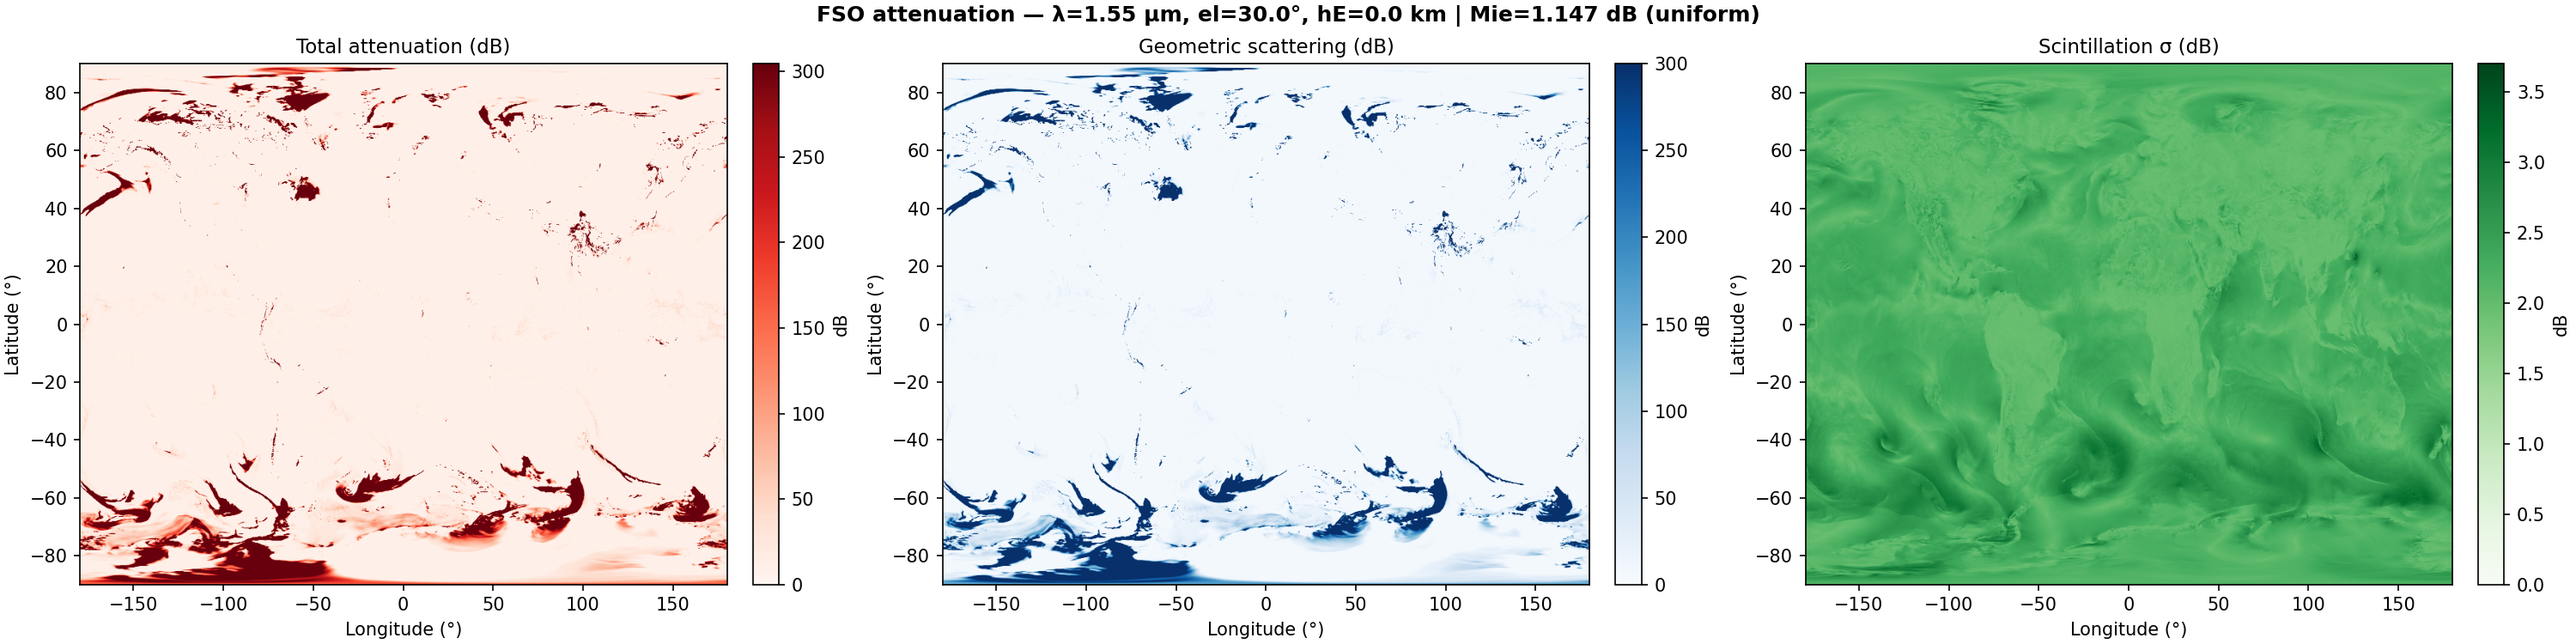
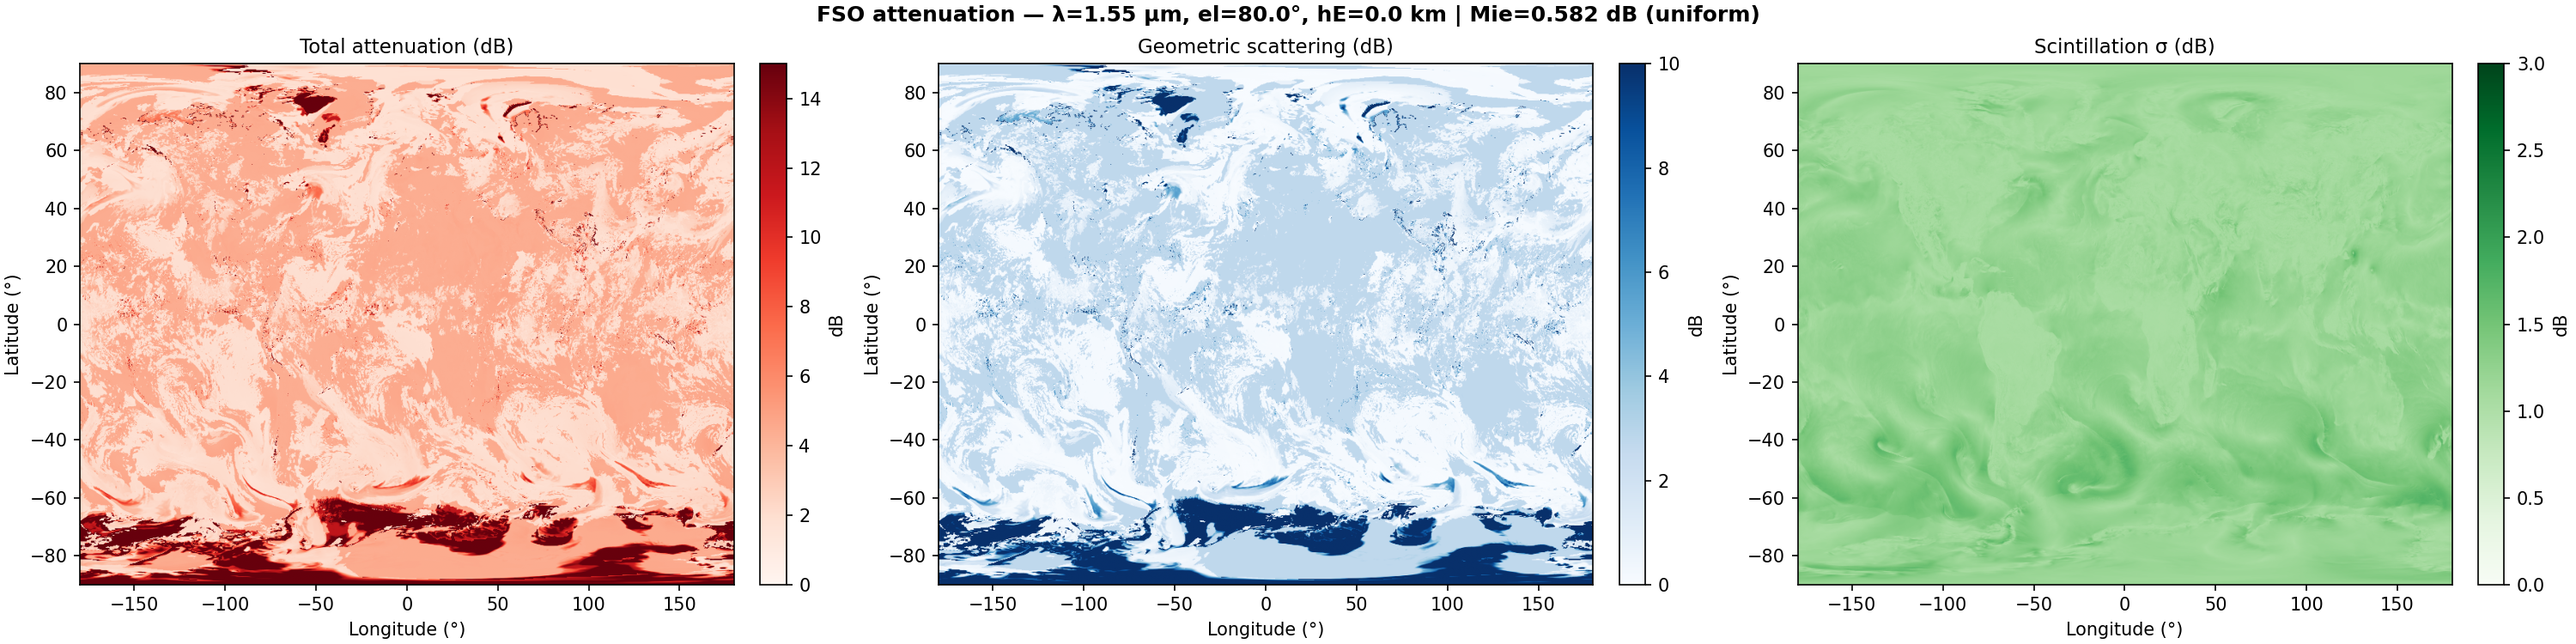
fix visibility map

diff --git a/cesium/weather_overlay.js b/cesium/weather_overlay.js
@@ -22,17 +22,14 @@ const wind50Layer = viewer.imageryLayers.addImageryProvider(
 const wind100Layer = viewer.imageryLayers.addImageryProvider(
     new Cesium.SingleTileImageryProvider({ url: 'maps/wind_speed_100m_map.png', rectangle: RECT })
 );
-const lwLayer = viewer.imageryLayers.addImageryProvider(
-    new Cesium.SingleTileImageryProvider({ url: 'maps/lw_map.png', rectangle: RECT })
-);
-const cn2Layer = viewer.imageryLayers.addImageryProvider(
-    new Cesium.SingleTileImageryProvider({ url: 'maps/cn2_map.png', rectangle: RECT })
+const visibilityLayer = viewer.imageryLayers.addImageryProvider(
+    new Cesium.SingleTileImageryProvider({ url: 'maps/visibility_map.png', rectangle: RECT })
 );
 const attenuationLayer = viewer.imageryLayers.addImageryProvider(
     new Cesium.SingleTileImageryProvider({ url: 'maps/attenuation_map.png', rectangle: RECT })
 );
 
-const allLayers = { temperature: tempLayer, wind10: wind10Layer, wind50: wind50Layer, wind100: wind100Layer, lw: lwLayer, cn2: cn2Layer, attenuation: attenuationLayer };
+const allLayers = { temperature: tempLayer, wind10: wind10Layer, wind50: wind50Layer, wind100: wind100Layer, visibility: visibilityLayer, attenuation: attenuationLayer };
 
 // Default Displayed Temperature
 Object.values(allLayers).forEach(l => l.show = false);

diff --git a/cesium/index.html b/cesium/index.html
@@ -51,8 +51,7 @@
         <button data-layer="wind10"                     onclick="showLayer('wind10')">Wind 10m above ground (m/s)</button>
         <button data-layer="wind50"                     onclick="showLayer('wind50')">Wind 50m above ground (m/s)</button>
         <button data-layer="wind100"                    onclick="showLayer('wind100')">Wind 100m above ground (m/s)</button>
-        <button data-layer="lw"                         onclick="showLayer('lw')">LWC 850mb (g/m³)</button>
-        <button data-layer="cn2"                        onclick="showLayer('cn2')">Cn² at 10 km (m⁻²/³)</button>
+        <button data-layer="visibility"                onclick="showLayer('visibility')">Visibility (km)</button>
         <button data-layer="attenuation"               onclick="showLayer('attenuation')">Attenuation (dB)</button>
     </div>
 

diff --git a/cesium/weather_map.py b/cesium/weather_map.py
@@ -73,9 +73,9 @@ def save_attenuation_plot(A_total, A_geom, A_scin, A_mie_scalar, lat, lon, filen
     """
     extent = [lon.min(), lon.max(), lat.min(), lat.max()]
     panels = [
-        (A_total, "Total attenuation (dB)",        "Reds",   0, None),
-        (A_geom,  "Geometric scattering (dB)",     "Blues",  0, None),
-        (A_scin,  "Scintillation σ (dB)",     "Greens", 0, None),
+        (A_total, "Total attenuation (dB)",    "Reds",   0, 15),
+        (A_geom,  "Geometric scattering (dB)", "Blues",  0, 10),
+        (A_scin,  "Scintillation σ (dB)",      "Greens", 0,  3),
     ]
     fig, axes = plt.subplots(1, 3, figsize=(20, 5), constrained_layout=True)
     for ax, (data, title, cmap, vmin, vmax) in zip(axes, panels):
@@ -105,27 +105,35 @@ def main():
     temp_c = gfs.field("TMP:2 m above ground") - 273.15
     save_map(temp_c, _map_path("temperature_map.png"), "turbo")
 
+    ws_maps = {}
     for level in ["10 m", "50 m", "100 m"]:
         ws = gfs.wind_speed(level)
+        ws_maps[level] = ws
         save_map(ws, _map_path(f"wind_speed_{level.replace(' ', '')}_map.png"),
                  "RdYlBu_r", vmin=0, vmax=30)
 
-    # —— Cn² at h = 7 000 m ───────────────────────────────────────────────────
-    ws_10m = gfs.wind_speed("10 m")
-    cn2 = scintillation.Cn2_profile(h_m=7_000.0, C0=C0, vg=ws_10m)
-    save_map(cn2, _map_path("cn2_map.png"), "plasma", vmin=0, vmax=1e-16)
+    ws_10m = ws_maps["10 m"]
 
     # —— Attenuation maps ─────────────────────────────────────────────────────
     print("Computing attenuation maps...")
 
     # GFS surface visibility [m] → km
-    V_km = gfs.field("VIS") / 1e3
+    V_km = gfs.field("VIS:surface") / 1e3
+    save_map(V_km, _map_path("visibility_map.png"), "YlGn", vmin=0, vmax=24)
+
+    # GFS cloud ceiling height [m AGL] → km
+    # Clear-sky pixels return 0 → fall back to full troposphere height
+    ceiling_m = gfs.field("HGT:cloud ceiling")
+    ceiling_km = ceiling_m / 1e3
+    hA_eff = np.where(ceiling_km > 0, ceiling_km, HA_KM)
+    hA_eff = np.clip(hA_eff, 0.1, HA_KM)
+    save_map(hA_eff, _map_path("ceiling_map.png"), "Blues_r", vmin=0, vmax=HA_KM)
 
     # Mie: scalar (fixed wavelength + sea-level station + elevation)
     A_mie = mie.attenuation_dB(LAM_UM, HE_KM, EL_DEG)
 
-    # Geometric: vectorised, driven by GFS visibility
-    A_geom = geometric.attenuation_dB(EL_DEG, LAM_UM, HA_KM, HE_KM, PHI, V_km=V_km)
+    # Geometric: vectorised, driven by GFS visibility and cloud ceiling height
+    A_geom = geometric.attenuation_dB(EL_DEG, LAM_UM, hA_eff, HE_KM, PHI, V_km=V_km)
 
     # Scintillation: array path triggered by keyword vg
     A_scin = scintillation.sigma_dB(LAM_UM, EL_DEG, H0_M, Z_M, C0=C0, vg=ws_10m)
@@ -133,7 +141,7 @@ def main():
     A_total = A_mie + A_geom + A_scin
 
     # Cesium overlay (borderless transparent PNG)
-    save_map(A_total, _map_path("attenuation_map.png"), "Reds", vmin=0, vmax=50)
+    save_map(A_total, _map_path("attenuation_map.png"), "Reds", vmin=0, vmax=15)
 
     # Diagnostic figure with axes and colourbars
     save_attenuation_plot(
